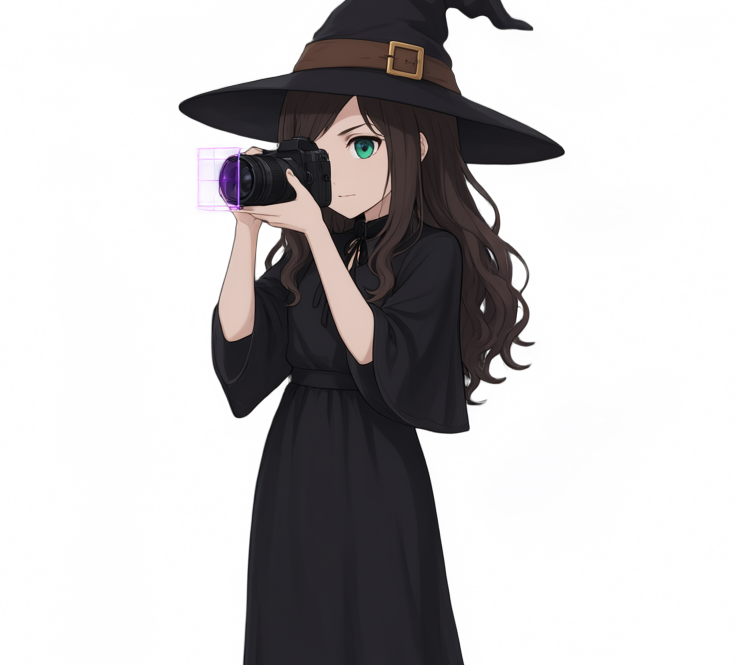
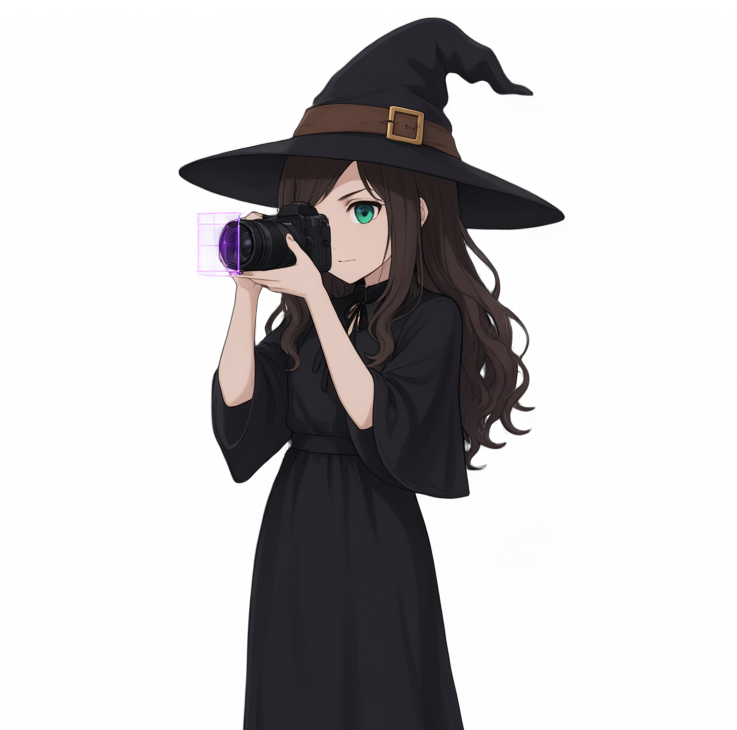
Fix eight service cards: faces, hat, hands and framing

Changed region(s): [[0.2185, 0.0, 0.7802, 0.782], [0.5929, 0.782, 0.6242, 0.8722], [0.3121, 0.782, 0.3433, 0.812]]

diff --git a/src/api/assets.rs b/src/api/assets.rs
@@ -374,7 +374,7 @@ pub const SERVICE_ART: [ServiceArt; 19] = [
         slug: "ai-vision",
         image: include_bytes!("../../assets/services/ai-vision.png"),
         width: 737,
-        height: 665,
+        height: 730,
     },
     ServiceArt {
         slug: "comfyui-media",
@@ -416,7 +416,7 @@ pub const SERVICE_ART: [ServiceArt; 19] = [
         slug: "local-private-dev",
         image: include_bytes!("../../assets/services/local-private-dev.png"),
         width: 760,
-        height: 760,
+        height: 661,
     },
     ServiceArt {
         slug: "mobile-apps",
